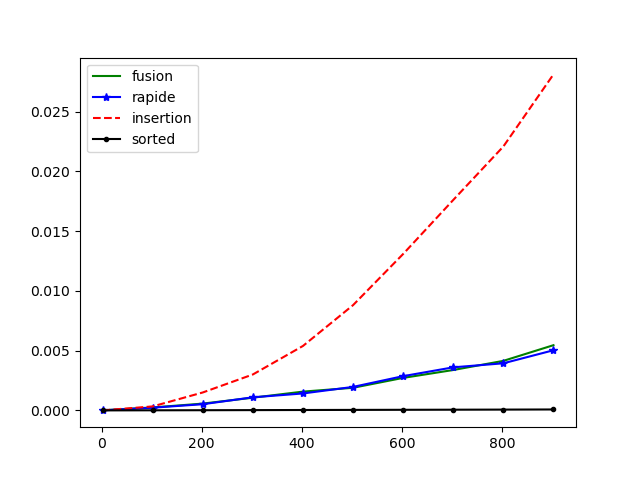
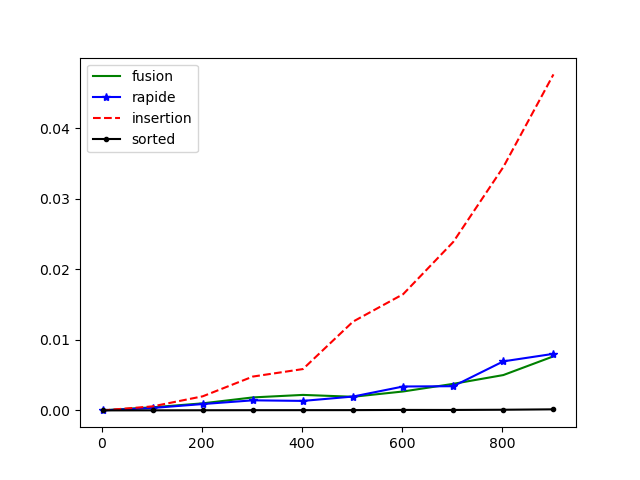
maj glouton

diff --git a/Exercices/S1_06_Gloutons/04_SacADos-cor.tex b/Exercices/S1_06_Gloutons/04_SacADos-cor.tex
@@ -1,0 +1,108 @@
+%\exer{}
+\setcounter{numques}{0}
+
+Un promeneur souhaite transporter dans son sac à dos le fruit de sa cueillette. La cueillette est belle, mais trop lourde pour être entièrement transportée dans le sac à dos. Des choix doivent être faits. Il faut que la masse totale des fruits choisis ne dépasse pas la capacité maximale du sac à dos.
+
+Les fruits cueillis ont des valeurs différentes et le promeneur souhaite que son chargement soit de la plus grande valeur possible.
+
+\begin{figure}[h]
+\centering
+\includegraphics[width=.8\linewidth]{SacEtFruits.png}
+\label{fig:SacEtFruits}
+\end{figure}
+
+
+
+\begin{table}[h]
+\centering
+\begin{tabular}{|l|c|c|}
+\hline
+Fruits cueillis	& Prix au kilo & Quantité ramassée\\
+\hline
+framboises& 24 €/kg  & 1 kg \\
+myrtilles & 16 €/kg & 3 kg  \\
+fraises & 6 €/kg & 5 kg \\
+mures & 3 €/kg & 2 kg \\
+\hline
+\end{tabular}
+\caption{}
+\label{tab_fruit}
+\end{table}
+
+La capacité du sac à dos n’est que de \SI{5}{kg}.
+On suppose que la masse d’un unique fruit est négligeable par rapport à la masse totale du sac en charge.
+
+\subsection*{Présentation de l’algorithme et implémentation}
+\label{sec:PrésentationDeLAlgorithmeEtImplémentation}
+
+Le principe pour optimiser le chargement est de commencer par mettre dans le sac la quantité maximale de fruits les plus chers par unité de masse. S’il y a encore de la place dans le sac, on continue avec les fruits les plus chers par unité de masse parmi ceux restants... et ainsi de suite jusqu’à ce que le sac soit plein. Il est possible qu’on ne puisse prendre qu’une fraction de la quantité de fruits disponible, si la capacité maximale du sac est atteinte. %L’algorithme sera donc constitué d’une structure itérative, incluant une structure alternative.
+
+%Dans \textbf{Algorithmes\_gloutons.py}, nous avons ébauché l’algorithme de résolution du problème et implémenté \texttt{cueillette} par la liste des fruits \textbf{triée} par prix au kilo décroissant.\\
+Un fruit est représenté par une liste \texttt{fruit=[prix au kilo,nom,quantité ramassée]} :
+
+\texttt{cueillette = [[24,"framboises",1], [16,"myrtilles",3], [6,"fraises",5], [3,"mures",2]]}
+
+
+\question{Implémenter la fonction \texttt{sac\_a\_dos(L:list, capacite:int)} qui prend en argument une liste de listes \texttt{L} modélisant la cueillette et la capacité du sac à dos, et appliquant la méthode décrite précédemment. Cette fonction renvoie :}
+\textit{\begin{itemize}
+\item une liste de listes des fruits contenus dans le sac à dos avec leur masse correspondante de façon à avoir le chargement de valeur maximale ;
+\item la valeur du chargement.
+\end{itemize}}
+
+La liste \texttt{cueillette} ne doit pas être modifiée. Vous pourrez si nécessaire utiliser une copie de la liste  \texttt{cueillette} que vous pourrez modifier. La copie de liste de listes se fait avec les instructions :
+\begin{lstlisting}
+import copy # au début de votre script
+L=copy.deepcopy(votreListe) # quand cela est nécessaire
+\end{lstlisting}
+
+
+\question{Exécuter votre programme et vérifier le résultat.}
+
+
+Une variante de ce problème ne trouve pas de solution optimale par la méthode gloutonne. Nous l’étudions ci-après.
+
+\subsection*{Version non fractionnaire du problème du sac à dos}
+\label{sec:VersionNonFractionnaireDuProblèmeDuSacÀDos}
+
+On suppose maintenant que les éléments à transporter ne sont pas fractionnables. Les fruits parmi lesquels choisir sont présentés dans le tableau \ref{tab_fruit2}.
+
+
+\begin{table}[h]
+	\centering
+		\begin{tabular}{|l|c|c|c|}
+\hline
+Fruits  & Prix au kilo & Masse d’un fruit & Quantité disponible\\
+\hline
+melon de cavaillon & 3 €/kg & 1 kg & 1\\
+melon jaune  & 2.5 €/kg & 2 kg & 1\\
+pastèque & 2 €/kg & 3 kg & 1 \\
+
+\hline
+		\end{tabular}
+		\caption{}
+	\label{tab_fruit2}
+\end{table}
+
+Cet ensemble de fruits est modélisé par :
+\begin{itemize}
+\item un fruit non fractionnable est représenté par une liste \texttt{[prix au kilo,nom,masse,quantité disponible]};
+\item une liste de listes \texttt{fruitsDisponibles = [[3,"melon de cavaillon",1,1], [2.5,"melon jaune",2,1, 2,"pastèque",3,1]]}.
+\end{itemize}
+
+
+
+L’objectif est toujours de placer dans le sac à dos le chargement de valeur maximale, de masse totale inférieure à 5kg. Par contre, les éléments n’étant fractionnables, il est possible que les choix successifs mène à un chargement qui ne remplit pas complètement le sac à dos.
+
+On se propose de tester la méthode gloutonne pour cette nouvelle formulation. 
+
+\question{En adaptant la fonction \texttt{sac\_a\_dos(L , capacite)} que vous renommerez \texttt{sac\_a\_dos\_V2(L , capacite)}, adapter la fonction de sorte qu’elle applique la méthode gloutonne à la version non fractionnaire du problème. %Pour cela, il faut :
+%\begin{itemize}
+%	\item {commenter la structure conditionnelle permettant de continuer à remplir le sac si sa capacité restante est inférieure à la masse du i-ème fruit,}
+%	\item {adapter la condition de la structure itérative de sorte à ne continuer à remplir le sac que si la capacité le permet.}
+%\end{itemize}
+Exécuter la fonction en utilisant la liste \texttt{fruitsDisponibles}.}
+
+\question{Le résultat obtenu est-il optimal ? Comparer avec la solution S = [[2.5,"melon jaune",2,1], [2,"pastèque",3,1]]. Quelle est la solution dont la valeur est maximale ?}
+
+
+

diff --git a/S2_Cours/02_tri/complexite_tri.py b/S2_Cours/02_tri/complexite_tri.py
@@ -1,0 +1,59 @@
+from tri import *
+import time as t
+import matplotlib.pyplot as plt
+
+
+
+####Comparaison des temps de calcul
+def comparer_tri(LGN,nom_de_fichier):
+    temps_insertion=[]
+    temps_rapide=[]
+    temps_fusion=[]
+    temps_sorted=[]
+    liste_k=[]
+    for k in range(2,len(LGN),100):
+        liste_k.append(k)
+        LGT1=LGN[:k+1]
+        LGT2=LGN[:k+1]
+        LGT3=LGN[:k+1]
+        LGT4=LGN[:k+1]
+        tic=t.perf_counter_ns()
+        tri_fusion(LGT1,0,len(LGT1))
+        toc=t.perf_counter_ns()
+        temps_fusion.append(toc-tic)
+        tic=t.perf_counter_ns()
+        tri_insertion(LGT2)
+        toc=t.perf_counter_ns()
+        temps_insertion.append(toc-tic)
+        tic=t.perf_counter_ns()
+        tri_rapide(LGT3,0,len(LGT3))
+        toc=t.perf_counter_ns()
+        temps_rapide.append(toc-tic)
+        tic=t.perf_counter_ns()
+        sorted(LGT4)
+        toc=t.perf_counter_ns()
+        temps_sorted.append(toc-tic)
+
+    plt.clf()
+    #pdb.set_trace()
+    plt.plot(liste_k,temps_fusion,'g-',label='fusion')
+    plt.plot(liste_k,temps_rapide,'b*-',label='rapide')
+    plt.plot(liste_k,temps_insertion,'r--',label='insertion')
+    plt.plot(liste_k,temps_sorted,'k.-',label='sorted')
+    plt.legend()
+    plt.savefig(nom_de_fichier)
+
+
+import random
+def generer_liste(n,N):
+    x = [random.randint(0, n) for p in range(0, N)]
+    return(x)
+
+N=int(1e3)
+# for k in range(1,N,100):
+#     L=generer_liste(N,N)
+
+L=generer_liste(N,N)
+comparer_tri(L,'complexite.png')
+
+

diff --git a/Exercices/S1_06_Gloutons/01_RenduMonnaie-cor.tex b/Exercices/S1_06_Gloutons/01_RenduMonnaie-cor.tex
@@ -1,0 +1,23 @@
+
+
+\question{Ecrire une fonction \texttt{rendre\_monnaie(caisse:list, cout:float, somme\_client:float)-> list} prenant en arguments deux flottants \texttt{cout} et \texttt{somme\_client} représentant le coût d'un produit et la somme donnée par le client en \euro{} ainsi que le contenu de la caisse. Cette fonction renvoie la liste des billets à rendre par le client.}
+
+\begin{lstlisting}
+
+\end{lstlisting}
+
+
+\question{Ecrire une fonction \texttt{rendre\_monnaie\_v2(caisse:list, cout:float, somme\_client:float)-> list} ayant le même objectif que la précédente. Cette fonction devra de plus mettre à jour la caisse. Elle devra prendre en compte que la caisse peut manquer de billets. Elle renverra une liste vide s'il n'est pas possible de rendre la monnaie.}
+
+\begin{lstlisting}
+
+\end{lstlisting}
+
+
+\question{Que retourne la fonction \texttt{rendre\_monnaie} ? Est-ce le rendu optimal ?}
+
+La solution optimale serait [2000,500,100] et l'algorithme \texttt{rendre\_monnaie\_v2(caisse, 34, 50)}, l'algorithme renverra \texttt{[1000, 100, 100, 100, 100, 100, 100]}.
+
+\question{Conclure << qualitativement >>.}
+
+L'algorithme glouton renvoie un optimum local et non pas un optimum global comme le montre l'exemple précédent.

diff --git a/S2_Cours/02_tri/tri.py b/S2_Cours/02_tri/tri.py
@@ -1,0 +1,59 @@
+def tri_insertion(T):
+    n=len(T)
+    for i in range(1,n):
+        j=i
+        v=T[i]
+        while j>0 and v<T[j-1]:
+            T[j]=T[j-1]
+            j=j-1
+        T[j]=v
+    return T
+
+
+def tri_fusion(a,g,d):
+    a0=a[:]
+    if g>=d-1:
+        return
+    else:
+        m=(g+d)//2
+        tri_fusion(a,g,m)
+        tri_fusion(a,m,d)
+        a0[g:d]=a[g:d]
+        fusion(a0,a,g,m,d)
+
+def fusion(a0,a,g,m,d):
+    i,j=g,m
+    for k in range(g,d):
+        if i<m and (j==d or a0[i]<=a0[j]):
+            a[k]=a0[i]
+            i=i+1
+        else:
+            a[k]=a0[j]
+            j=j+1
+
+
+
+
+def partition(a,g,d):
+    assert g<d
+    v=a[g]
+    ainf=[]
+    asup=[]
+    for x in a[g+1:d]:
+        if x<v:
+            ainf.append(x)
+        else:
+            asup.append(x)
+    a=a[0:g]+ainf+[v]+asup+a[d:len(a)]
+    m=len(ainf)+g
+    return m,a
+
+
+
+def tri_rapide(a,g,d):
+    if g>=d-1:
+        return
+    else:
+        m,a=partition(a,g,d)
+        tri_rapide(a,g,m)
+        tri_rapide(a,m+1,d)
